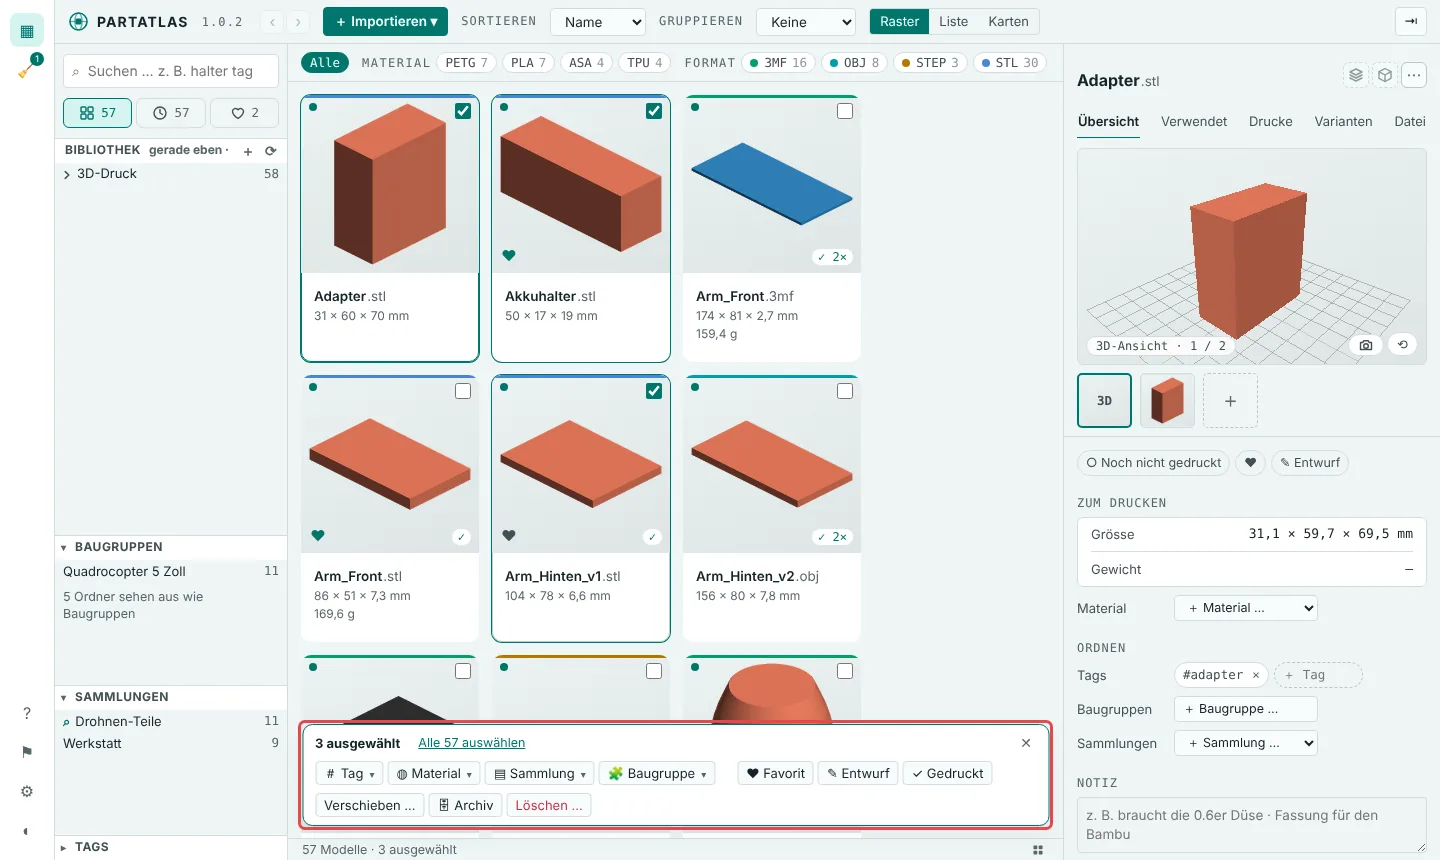
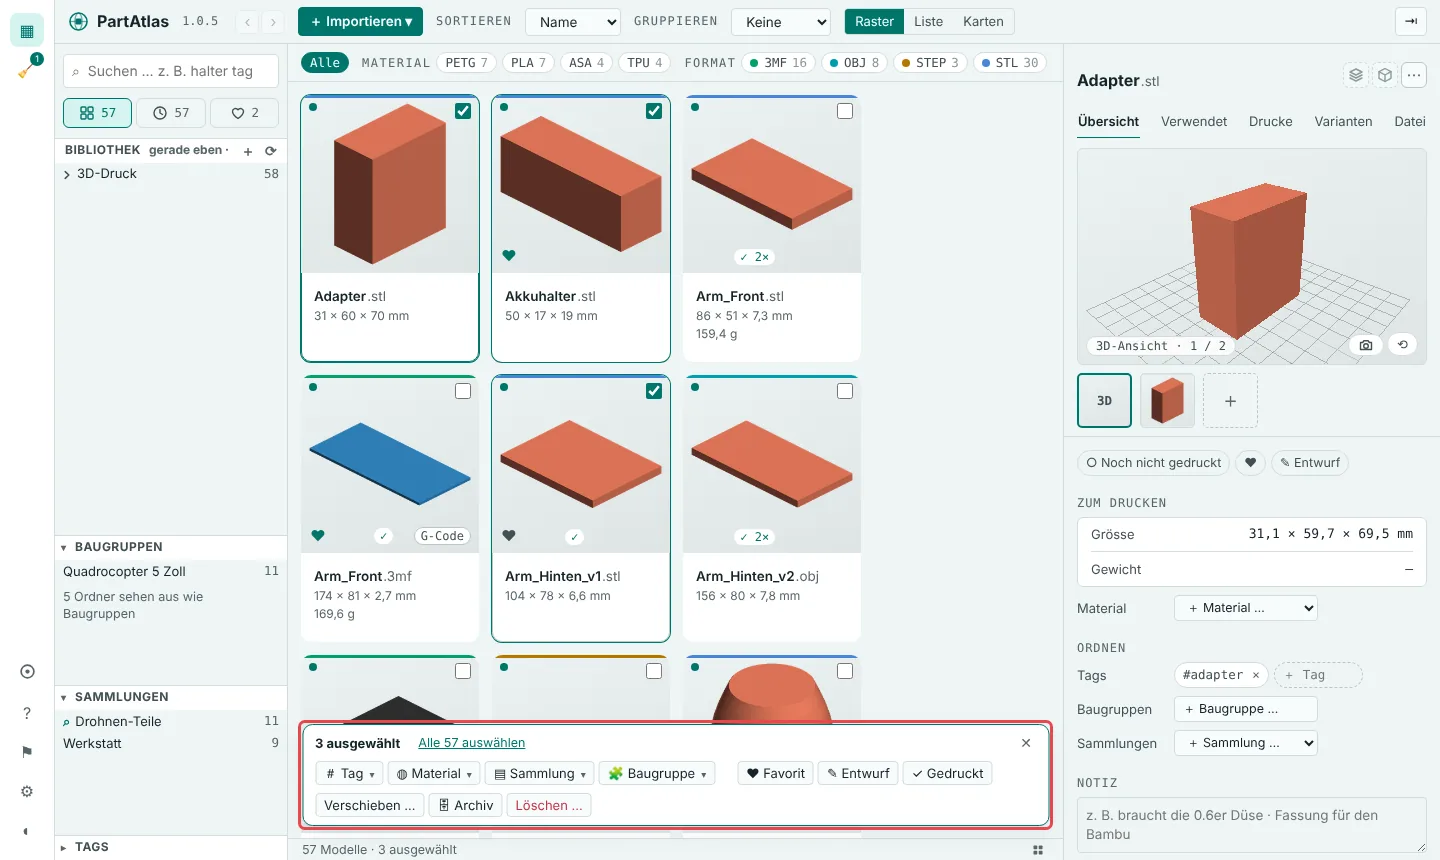
Fassung 1.0.5: G-Code-Zeichen auf der Kachel (feste Plätze, Suche gcode:ja), Schriftzug PartAtlas, grössere Spule im Formular; Rückweg fassung-1.0.4
Claude-Session: https://claude.ai/code/session_01QtSDAZUfB2Sx37bC6sy5Tc

diff --git a/partatlas/web/app.js b/partatlas/web/app.js
@@ -264,6 +264,7 @@ const SORTIERUNGEN = {
   material: { wert: (m) => m.material || "", ab: false },
   ordner: { wert: (m) => ordnerText(m), ab: false },
   drucke: { wert: (m) => m.drucke_n || 0, ab: true },
+  gcode: { wert: (m) => (m.gcode ? 1 : 0), ab: true },
 };
 function sortierungWaehlen(k) {
   zustand.absteigend = zustand.sortierung === k ? !zustand.absteigend : SORTIERUNGEN[k].ab;
@@ -734,12 +735,19 @@ function bildUrl(m) {
   return m.hash && ["eingebettet", "gerendert"].includes(m.vorschau) ? `/api/vorschau/${m.hash}.png?t=1` : null;
 }
 
+// „G-Code“ auf der Kachel, wenn zum Modell irgendwo ein G-Code gehört: an einem Druck angehängt oder weil das 3MF schon geslict ist. Ein Klick öffnet den Reiter.
+const gcodeBadge = (m) => m.gcode ? `<button type="button" class="badge gcode" data-gcode-oeffnen="${esc(m.gcode)}"
+  title="${m.gcode === "druck" ? "G-Code bei den Drucken — ansehen" : "Das 3MF ist schon geslict — Einstellungen ansehen"}">G-Code</button>` : "";
+
 function statusBadge(m) {
   // Ruhig: ein Haken, bei mehreren Drucken mit Zahl. Gewicht und Material stehen im Inspektor.
-  return m.ohne_datei ? `<span class="badge ohne" title="Ohne Datei behalten">ohne Datei</span>`
+  const status = m.ohne_datei ? `<span class="badge ohne" title="Ohne Datei behalten">ohne Datei</span>`
     : m.fehlt ? `<span class="badge warn">⚠ Datei fehlt</span>`
     : m.fehler ? `<span class="badge warn">unlesbar</span>`
     : m.drucke_n ? `<span class="badge gedruckt" title="${m.drucke_n}× gedruckt">✓${m.drucke_n > 1 ? " " + m.drucke_n + "×" : ""}</span>` : "";
+  // Feste Plätze unten rechts: das G-Code-Zeichen ganz rechts, der Status links davon — so steht jedes Zeichen in jeder Kachel am selben Ort.
+  const gcode = m.fehlt || m.ohne_datei ? "" : gcodeBadge(m);
+  return status || gcode ? `<span class="badges">${status}<span class="slot-g">${gcode}</span></span>` : "";
 }
 
 // Was unter dem Namen auf der Kachel steht (Einstellungen › Ansicht). Die Kachel wächst mit: je Zeile 18 px (kachelHoehe).
@@ -846,6 +854,7 @@ const SPALTEN = {
   neu: { titel: "EINGELESEN", sort: "neu", min: 72, w: 96, zelle: (m) => (m.angelegt ? new Date(m.angelegt).toLocaleDateString("de-DE") : "") },
   ordner: { titel: "ORDNER", sort: "ordner", min: 72, w: 180, zelle: (m) => esc(ordnerText(m)) },
   drucke: { titel: "DRUCKE", sort: "drucke", min: 48, w: 64, zelle: (m) => (m.drucke_n ? String(m.drucke_n) : "") },
+  gcode: { titel: "G-CODE", sort: "gcode", min: 56, w: 72, zelle: (m) => (m.gcode ? `<span title="${m.gcode === "druck" ? "G-Code bei den Drucken" : "geslictes 3MF"}">G-Code</span>` : "") },
 };
 const SPALTEN_VORGABE = ["format", "groesse", "gewicht", "status"];
 const groesseText = (b) => (b < 1048576 ? `${zahl(b / 1024, 0)} kB` : `${zahl(b / 1048576, 1)} MB`);
@@ -2718,6 +2727,12 @@ $("#gruppierung").value = zustand.gruppierung;
     zustand.offen.has(id) ? zustand.offen.delete(id) : zustand.offen.add(id);
     localStorageSchreiben("offen", JSON.stringify([...zustand.offen]));
     ladeSeite();
+    return;
+  }
+  const gcodeZeichen = t.closest("[data-gcode-oeffnen]");
+  if (gcodeZeichen) {                                  // Kachel oder Zeile wählen und den Reiter öffnen, in dem der G-Code steht
+    const id = gcodeZeichen.closest("[data-id]")?.dataset.id;
+    if (id) { localStorageSchreiben("reiter", gcodeZeichen.dataset.gcodeOeffnen === "druck" ? "drucke" : "slicer"); await waehle(id); }
     return;
   }
   const k = t.closest(".karte");

diff --git a/partatlas/web/app.css b/partatlas/web/app.css
@@ -98,7 +98,7 @@ button, input, select { font: inherit; color: inherit; }
 
 .kopf { grid-area: kopf; display: flex; align-items: center; gap: var(--s4); padding: 0 var(--s4);
         border-bottom: 1px solid var(--line); background: var(--bg); }
-.logo { font-weight: 700; letter-spacing: 0.08em; font-size: 14px; }
+.logo { font-weight: 700; letter-spacing: 0; font-size: 16px; }
 .logo { display: flex; align-items: center; gap: var(--s3); }
 .logo .zeichen { width: 21px; height: 21px; color: var(--accent); flex: none; }
 .kopf-luecke { flex: 1; }
@@ -1407,3 +1407,10 @@ body.im-lager #inspektor > * { visibility: hidden; }
 .lg-leerlager { display: flex; flex-direction: column; align-items: center; gap: var(--s4); padding: var(--s6) 0; }
 .lg-leerlager .lg-leer { padding: 0; text-align: center; max-width: 46ch; }
 .lf-bild { gap: var(--s3); }
+
+/* Zeichen unten rechts auf der Kachel: feste Plätze, G-Code ganz rechts, der Status (✓ n×, Datei fehlt …) links davon; der Platz für G-Code bleibt frei */
+.badges { position: absolute; bottom: var(--s3); right: var(--s3); display: flex; align-items: center; gap: var(--s2); }
+.badges > .badge, .badges .slot-g .badge { position: static; bottom: auto; right: auto; }
+.badges .slot-g { display: flex; justify-content: flex-end; min-width: 5.2em; }
+.badge.gcode { border: 1px solid var(--line-strong); color: var(--ink-2); background: var(--panel); cursor: pointer; font: 12px var(--mono); }
+.badge.gcode:hover { color: var(--accent); border-color: var(--accent); }

diff --git a/partatlas/web/index.html b/partatlas/web/index.html
@@ -22,7 +22,7 @@
   </nav>
 
   <header class="kopf">
-    <div class="logo"><svg class="zeichen" viewBox="0 0 32 32" aria-hidden="true"><circle cx="16" cy="16" r="13" fill="none" stroke="currentColor" stroke-width="2.4"/><ellipse cx="16" cy="16" rx="5.5" ry="13" fill="none" stroke="currentColor" stroke-width="2" opacity=".55"/><path d="M3 16H29" stroke="currentColor" stroke-width="2" opacity=".55"/><rect x="11.5" y="11.5" width="9" height="9" rx="2" fill="currentColor"/></svg>PARTATLAS <small id="version" title="Fassung"></small></div>
+    <div class="logo"><svg class="zeichen" viewBox="0 0 32 32" aria-hidden="true"><circle cx="16" cy="16" r="13" fill="none" stroke="currentColor" stroke-width="2.4"/><ellipse cx="16" cy="16" rx="5.5" ry="13" fill="none" stroke="currentColor" stroke-width="2" opacity=".55"/><path d="M3 16H29" stroke="currentColor" stroke-width="2" opacity=".55"/><rect x="11.5" y="11.5" width="9" height="9" rx="2" fill="currentColor"/></svg>PartAtlas <small id="version" title="Fassung"></small></div>
     <div class="nav"><button id="nav-zurueck" type="button" title="Zurück (Alt+←)" disabled>‹</button><button id="nav-vor" type="button" title="Vor (Alt+→)" disabled>›</button></div>
     <div class="import">
       <button class="knopf akzent" id="import-knopf">＋ Importieren ▾</button>

diff --git a/partatlas/web/handbuch/index.html b/partatlas/web/handbuch/index.html
@@ -249,6 +249,7 @@ figure.bild figcaption { font-size: 13px; color: var(--muted); margin-top: 6px; 
     <tr><td><code>format:stl</code></td><td>Nur ein Format: <code>3mf</code>, <code>stl</code>, <code>obj</code>, <code>step</code>, <code>fcstd</code>.</td></tr>
     <tr><td><code>gedruckt:ja</code></td><td>Nur bereits gedruckte Modelle (<code>nein</code> für die übrigen).</td></tr>
     <tr><td><code>favorit:ja</code></td><td>Nur Favoriten.</td></tr>
+    <tr><td><code>gcode:ja</code></td><td>Nur Modelle mit G-Code: an einem Druck angehängt oder schon im geslicten 3MF (<code>nein</code> für die übrigen). Auf der Kachel zeigt das Zeichen „G-Code“ dasselbe; ein Klick öffnet den Reiter.</td></tr>
     <tr><td><code>notiz:montage</code></td><td>Sucht in Notizen und in den Namen der Anhänge.</td></tr>
   </table>
   <p>Weitere Filter: <code>ordner:</code> · <code>baugruppe:</code> · <code>sammlung:</code> ·

diff --git a/partatlas/web/lager.js b/partatlas/web/lager.js
@@ -165,7 +165,7 @@ function lgBildFeld() {
   const f = lg.form;
   const url = f.datei ? f.vorschau : (f.bild && !f.bildWeg ? `/api/spulen/${f.id}/bild?k=${f.bild.k}` : "");
   return url ? `<img src="${esc(url)}" alt="Foto der Spule"><button type="button" class="knopf" data-lg-bildweg aria-label="Bild entfernen">✕</button>`
-    : `${lgSpule(f.farbe, 64)}<span class="dim">Bild hierher ziehen oder klicken</span>`;
+    : `${lgSpule(f.farbe, 120)}<span class="dim">Bild hierher ziehen oder klicken</span>`;
 }
 
 function lgBildWaehlen(datei) {

diff --git a/tests/test_gcode_ui.py b/tests/test_gcode_ui.py
@@ -1,0 +1,77 @@
+"""Das G-Code-Zeichen auf der Kachel und in der Liste, die Suche gcode:ja, ein Klick öffnet den Reiter; der Schriftzug oben heisst „partAtlas“."""
+import os
+import socket
+import subprocess
+import sys
+import tempfile
+import urllib.request
+
+import muster
+from muster import check
+from test_bereinigen_ui import abfrage, chromium, warte
+
+HIER = os.path.dirname(os.path.abspath(__file__))
+GCODE = (b"; generated by OrcaSlicer 2.0\\n; total filament weight [g] : 2\\n; HEADER_BLOCK_END\\n; CONFIG_BLOCK_START\\n; wall_loops = 2\\n"
+         b"; CONFIG_BLOCK_END\\nG28\\n")
+
+if __name__ == "__main__":
+    muster.zeitgrenze(90)
+    from playwright.sync_api import sync_playwright
+    tmp = tempfile.mkdtemp()
+    samm = os.path.join(tmp, "3D")
+    os.makedirs(samm)
+    muster.stl_binaer(os.path.join(samm, "Mit.stl"), 10, 20, 30)
+    muster.stl_binaer(os.path.join(samm, "Ohne.stl"), 12, 20, 30)
+    muster.dreimf(os.path.join(samm, "Geslict.3mf"))
+    with socket.socket() as s:
+        s.bind(("127.0.0.1", 0))
+        port = s.getsockname()[1]
+    umgebung = {**os.environ, "PARTATLAS_BESTAND": os.path.join(tmp, "bestand"), "PARTATLAS_PORT": str(port),
+                "PYTHONPATH": os.environ.get("PARTATLAS_QUELLE") or os.path.join(HIER, "..")}
+    server = subprocess.Popen([sys.executable, "-m", "partatlas"], env=umgebung, cwd=tmp, stdout=subprocess.DEVNULL, stderr=subprocess.DEVNULL)
+    try:
+        warte(lambda: abfrage(port, "/api/zaehler") is not None)
+        abfrage(port, "/api/neuigkeiten/gesehen", {})
+        abfrage(port, "/api/wurzeln", {"pfad": samm})
+        warte(lambda: len(abfrage(port, "/api/modelle")) == 3)
+        ids = {m["name"]: m["id"] for m in abfrage(port, "/api/modelle")}
+        did = abfrage(port, "/api/drucke", {"modelle": [ids["Mit"]], "felder": {}})["id"]
+        r = urllib.request.Request(f"http://127.0.0.1:{port}/api/drucke/{did}/datei?name=mit.gcode", method="POST", data=GCODE,
+                                   headers={"Content-Type": "application/octet-stream"})
+        urllib.request.urlopen(r).read()
+        with sync_playwright() as p:
+            b = p.chromium.launch(executable_path=chromium())
+            pg = b.new_page(viewport={"width": 1400, "height": 800})
+            pg.goto(f"http://127.0.0.1:{port}/")
+            pg.wait_for_selector(".karte")
+            pg.wait_for_selector(".badge.gcode")
+            pg.screenshot(path="/tmp/claude-0/-home-user/a87771ce-acd8-5417-a6e2-9a56023b0bc8/scratchpad/gcode_karten.png")
+            wo = lambda n: pg.locator(".karte", has_text=n).locator(".badge.gcode").count()
+            check("Zeichen „G-Code“ bei dem Modell mit angehängtem G-Code und beim geslicten 3MF, nicht beim anderen",
+                  wo("Mit") == 1 and wo("Geslict") == 1 and wo("Ohne") == 0)
+            ort = lambda n, sel: pg.eval_on_selector(f".karte:has-text('{n}') {sel}", "e => { const r = e.getBoundingClientRect(), k = e.closest('.karte').getBoundingClientRect(); return [Math.round(k.right - r.right), Math.round(k.bottom - r.bottom)]; }")
+            check("Feste Plätze: das G-Code-Zeichen sitzt in jeder Kachel am selben Ort, mit und ohne ✓ daneben; das ✓ steht links davon",
+                  ort("Mit", ".badge.gcode") == ort("Geslict", ".badge.gcode")
+                  and pg.eval_on_selector(".karte:has-text('Mit') .badge.gedruckt", "e => e.getBoundingClientRect().right") <= pg.eval_on_selector(".karte:has-text('Mit') .badge.gcode", "e => e.getBoundingClientRect().left"))
+            check("Der Hinweis nennt, wo der G-Code steckt",
+                  "bei den Drucken" in pg.get_attribute(".karte:has-text('Mit') .badge.gcode", "title")
+                  and "geslict" in pg.get_attribute(".karte:has-text('Geslict') .badge.gcode", "title"))
+            pg.click(".karte:has-text('Mit') .badge.gcode")
+            pg.wait_for_selector("#inspektor .i-reiter")
+            pg.wait_for_function("document.querySelector('#inspektor').dataset.reiter === 'drucke'")
+            check("Ein Klick auf das Zeichen wählt das Modell und öffnet den Reiter Drucke mit dem G-Code",
+                  "mit.gcode" in pg.inner_text("#inspektor").lower())
+            pg.click(".karte:has-text('Geslict') .badge.gcode")
+            pg.wait_for_function("document.querySelector('#inspektor').dataset.reiter === 'slicer'")
+            check("Beim geslicten 3MF öffnet es den Reiter Slicer", pg.evaluate("document.querySelector('#inspektor').dataset.reiter") == "slicer")
+            pg.fill("#suche", "gcode:ja")
+            pg.wait_for_function("document.querySelectorAll('.karte').length === 2")
+            check("Die Suche gcode:ja zeigt genau die beiden, beide mit dem Zeichen", pg.locator(".karte").count() == 2 and pg.locator(".karte .badge.gcode").count() == 2
+                  and pg.locator(".karte", has_text="Ohne").count() == 0)
+            pg.fill("#suche", "")
+            check("Der Schriftzug oben heisst „PartAtlas“, nicht in Grossbuchstaben", pg.inner_text(".logo").startswith("PartAtlas") and "PARTATLAS" not in pg.inner_text(".logo"))
+            b.close()
+    finally:
+        server.terminate()
+        server.wait(10)
+    muster.ende()

diff --git a/tests/test_drucke.py b/tests/test_drucke.py
@@ -140,6 +140,10 @@ if __name__ == "__main__":
         k_ = c.app.state.zustand["katalog"]
         v1 = c.post("/api/drucke", json={"modelle": [C], "felder": {"ergebnis": "fehler"}}).json()["id"]
         r = c.post(f"/api/drucke/{v1}/datei", params={"name": "Clip_v1.gcode"}, content=gcode(2)).json()
+        gc = lambda n: next(x for x in c.get("/api/modelle").json() if x["name"] == n)["gcode"]
+        suche_gcode = lambda w: sorted(x["name"] for x in c.get("/api/modelle", params={"q": f"gcode:{w}"}).json())
+        check("Kachel: das Modell mit G-Code am Druck trägt „druck“, die anderen nichts; die Suche gcode:ja findet genau das eine",
+              gc("Clip") == "druck" and gc("Halter") is None and gc("Deckel") is None and suche_gcode("ja") == ["Clip"] and "Clip" not in suche_gcode("nein"))
         d1 = next(x for x in c.get(f"/api/modelle/{C}").json()["drucke"] if x["id"] == v1)
         check("G-Code am Druck: Gewicht und Dauer aus dem Kopf füllen leere Felder, Einstellungen als Profil",
               d1["gewicht_g"] == 21.5 and d1["dauer_s"] == 7200 and d1["datei"]["name"] == "Clip_v1.gcode" and r["werte"] == 4
@@ -166,6 +170,14 @@ if __name__ == "__main__":
         check("Einstellungen des Drucks: das Wichtigste und alle Werte", len(e["alle"]) == 4 and "Qualität" in [x["gruppe"] for x in e["wichtig"]])
         check("Herunterladen liefert die Datei", c.get(f"/api/drucke/{v1}/datei").content == gcode(2))
         check("Nur G-Code oder 3MF", c.post(f"/api/drucke/{v1}/datei", params={"name": "x.stl"}, content=b"solid").status_code == 400)
+        gcn = lambda: k_.db.get_node(f"MODEL_ASSET/{D}", readonly=True).get("gcode_n")
+        vorher = gcn()
+        vd = c.post("/api/drucke", json={"modelle": [D], "felder": {}}).json()["id"]
+        c.post(f"/api/drucke/{vd}/datei", params={"name": "Deckel2.gcode"}, content=gcode(2))
+        check("Ein weiterer Druck mit G-Code am selben Modell zählt mit; das Zeichen bleibt „druck“ und die Suche findet das Modell",
+              gcn() == vorher + 1 and gc("Deckel") == "druck" and "Deckel" in suche_gcode("ja"))
+        c.delete(f"/api/drucke/{vd}/datei")
+        check("G-Code gelöst: der Zähler geht zurück (das Zeichen hängt an den übrigen Drucken des Modells)", gcn() == vorher and (gc("Deckel") == "druck") == bool(vorher))
         c.delete(f"/api/drucke/{v1}/datei")
         check("Lösen: der Druck hat keine Datei mehr, die Datei bleibt im Vault",
               next(x for x in c.get(f"/api/modelle/{C}").json()["drucke"] if x["id"] == v1)["datei"] is None

diff --git a/partatlas/drucke.py b/partatlas/drucke.py
@@ -95,6 +95,7 @@ class Drucke:
         self.k = katalog
         self.db = katalog.db
         self._alte_haken_umziehen()
+        self._gcode_nachziehen()
 
     # ------------------------------------------------------------ Lesen
 
@@ -150,7 +151,9 @@ class Drucke:
             ref_werte = ({"druck": referenz, "gewicht_g": rd.get("gewicht_g"), "dauer_s": rd.get("dauer_s"),
                           "filament": rd.get("filament") or []} if rd else None)
             neu = {"drucke_n": sum(1 for d in drucke if d.get("ergebnis") in ZAEHLT),
-                   "gedruckt": any(d.get("ergebnis") == "gut" for d in drucke), "ref_werte": ref_werte}
+                   "gedruckt": any(d.get("ergebnis") == "gut" for d in drucke), "ref_werte": ref_werte,
+                   # Wie viele Drucke einen G-Code oder ein Projekt tragen: die Kachel zeigt „G-Code“, ohne bei jedem Modell nachzuschlagen.
+                   "gcode_n": sum(1 for i in self._ids_von(mid) if self.db.get_connected(ref(DRUCK, i), rel_type=AUSGEFUEHRT))}
             if any(m.get(k) != v for k, v in neu.items()):
                 self.db.update_node(MODELL, mid, neu)
 
@@ -369,6 +372,8 @@ class Drucke:
         with self.db.transaction():
             for kid, _ in self.db.get_connected_edges(ref(DRUCK, did), rel_type=AUSGEFUEHRT):
                 self.db.delete_edge(kid)
+        with self.db.transaction():                    # erst nach dem Lösen: sonst zählt nachziehen die Kante noch mit
+            self.nachziehen(self._modelle_von(did))
 
     def einstellungen(self, did):
         """{slicer, wichtig, alle} der Datei am Druck."""
@@ -394,6 +399,13 @@ class Drucke:
         return {"gleich": not diff, "unterschiede": diff}
 
     # ------------------------------------------------------------ Umzug
+
+    def _gcode_nachziehen(self):
+        """Bestände vor 1.0.5: Modelle mit Drucken bekommen `gcode_n`. Schreibt nur, wenn so ein Modell da ist."""
+        alt = [mid for mid, m in self.db.list_nodes(MODELL, readonly=True).items() if m.get("drucke_n") and m.get("gcode_n") is None]
+        if alt:
+            with self.db.transaction():
+                self.nachziehen(alt)
 
     def _alte_haken_umziehen(self):
         """Bestände vor 0.19: der Haken „gedruckt“ war ein Feld. Jeder wird zu

diff --git a/partatlas/suche.py b/partatlas/suche.py
@@ -52,9 +52,9 @@ WORTBONUS = 2.0
 # feld:wert — deutsch, wie es der Anwender tippt.
 FILTER = {"tag": "tags", "ordner": "ordner", "baugruppe": "baugruppen", "sammlung": "sammlungen",
           "material": "material", "designer": "designer", "name": "name", "titel": "titel",
-          "format": "format", "gedruckt": "gedruckt", "favorit": "favorit", "notiz": "notiz"}
+          "format": "format", "gedruckt": "gedruckt", "favorit": "favorit", "notiz": "notiz", "gcode": "gcode"}
 # Diese vergleichen genau: „format:st“ soll nicht STL und STEP liefern.
-GENAU = {"format", "gedruckt", "favorit"}
+GENAU = {"format", "gedruckt", "favorit", "gcode"}
 JA = {"ja": "ja", "j": "ja", "1": "ja", "true": "ja", "nein": "nein", "n": "nein", "0": "nein", "false": "nein"}
 
 _FELDFILTER = re.compile(r'(-?)(\w+):(?:"([^"]*)"|(\S+))')
@@ -84,7 +84,7 @@ def zerlege(q):
         if name not in FILTER:
             return m.group(0)
         wert = norm(m.group(3) if m.group(3) is not None else m.group(4))
-        if FILTER[name] in ("gedruckt", "favorit"):
+        if FILTER[name] in ("gedruckt", "favorit", "gcode"):
             wert = JA.get(wert, wert)
         if wert:
             filter_.append((FILTER[name], wert, m.group(1) == "-"))
@@ -159,6 +159,7 @@ class Suchindex:
             "format": d.get("format") or "",
             "gedruckt": "ja" if m.get("gedruckt") else "nein",
             "favorit": "ja" if m.get("favorit") else "nein",
+            "gcode": "ja" if m.get("gcode_n") or d.get("platten") else "nein",
             "notiz": norm(" ".join([self.db.get_node_full(ref(MODELL, mid)).get("notiz") or ""]
                                    + [a.get("name", "") for a in m.get("anhaenge") or []])),
         }

diff --git a/partatlas/neuigkeiten.py b/partatlas/neuigkeiten.py
@@ -8,6 +8,9 @@ Zeilen in der Sprache des Anwenders, was er sieht oder tun kann, nicht was im Co
 """
 
 NEUES = [
+    ("1.0.5", ["Auf der Kachel steht „G-Code“, wenn zu einem Modell ein G-Code gehört — an einem Druck angehängt oder schon im geslicten 3MF. Ein Klick öffnet den passenden Reiter, "
+               "die Suche kennt dazu „gcode:ja“. Das Zeichen sitzt unten rechts immer am selben Platz, der Status (✓ gedruckt, Datei fehlt) links davon.",
+               "Der Schriftzug oben heisst jetzt „PartAtlas“. Im Spulenformular ist das Bild der Spule grösser."]),
     ("1.0.4", ["Im Lager steht jetzt eine Spule vor jeder Karte — die Wicklung hat die Farbe der Spule, auch im leeren Lager und im Formular als Platzhalter."]),
     ("1.0.3", ["Neu: das Lager. Das Spulensymbol in der Leiste links öffnet deine Spulen — mit Rest, Preis und Lagerort, als Karten oder Liste, mit Suche und Filter. Spulen "
                "anlegen (auch mehrere gleiche), bearbeiten, nachkaufen und löschen.",

diff --git a/partatlas/katalog.py b/partatlas/katalog.py
@@ -460,6 +460,7 @@ class Katalog:
             "id": mid, "name": m.get("name"), "format": d.get("format"),
             "masse": d.get("masse_mm"), "gewicht_g": round(gewicht, 2) if gewicht else None, "gewicht_herkunft": gewicht_herkunft,
             "material": material, "materialien": materialien, "gedruckt": m.get("gedruckt", False),
+            "gcode": "druck" if m.get("gcode_n") else ("3mf" if platten else None),
             "drucke_n": m.get("drucke_n", 0),
             "favorit": m.get("favorit", False), "entwurf": bool(m.get("entwurf")), "hash": h,
             "vorschau": d.get("vorschau"), "cad": d.get("cad"), "fehlt": not orte and not papierkorb,

diff --git a/partatlas/version.py b/partatlas/version.py
@@ -1,3 +1,3 @@
 # Dritte Stelle steigt mit jedem Commit unter partatlas/, zweite bei
 # sichtbarer Änderung an Oberfläche oder Bestand (wie in pDMS).
-VERSION = "1.0.4"
+VERSION = "1.0.5"
